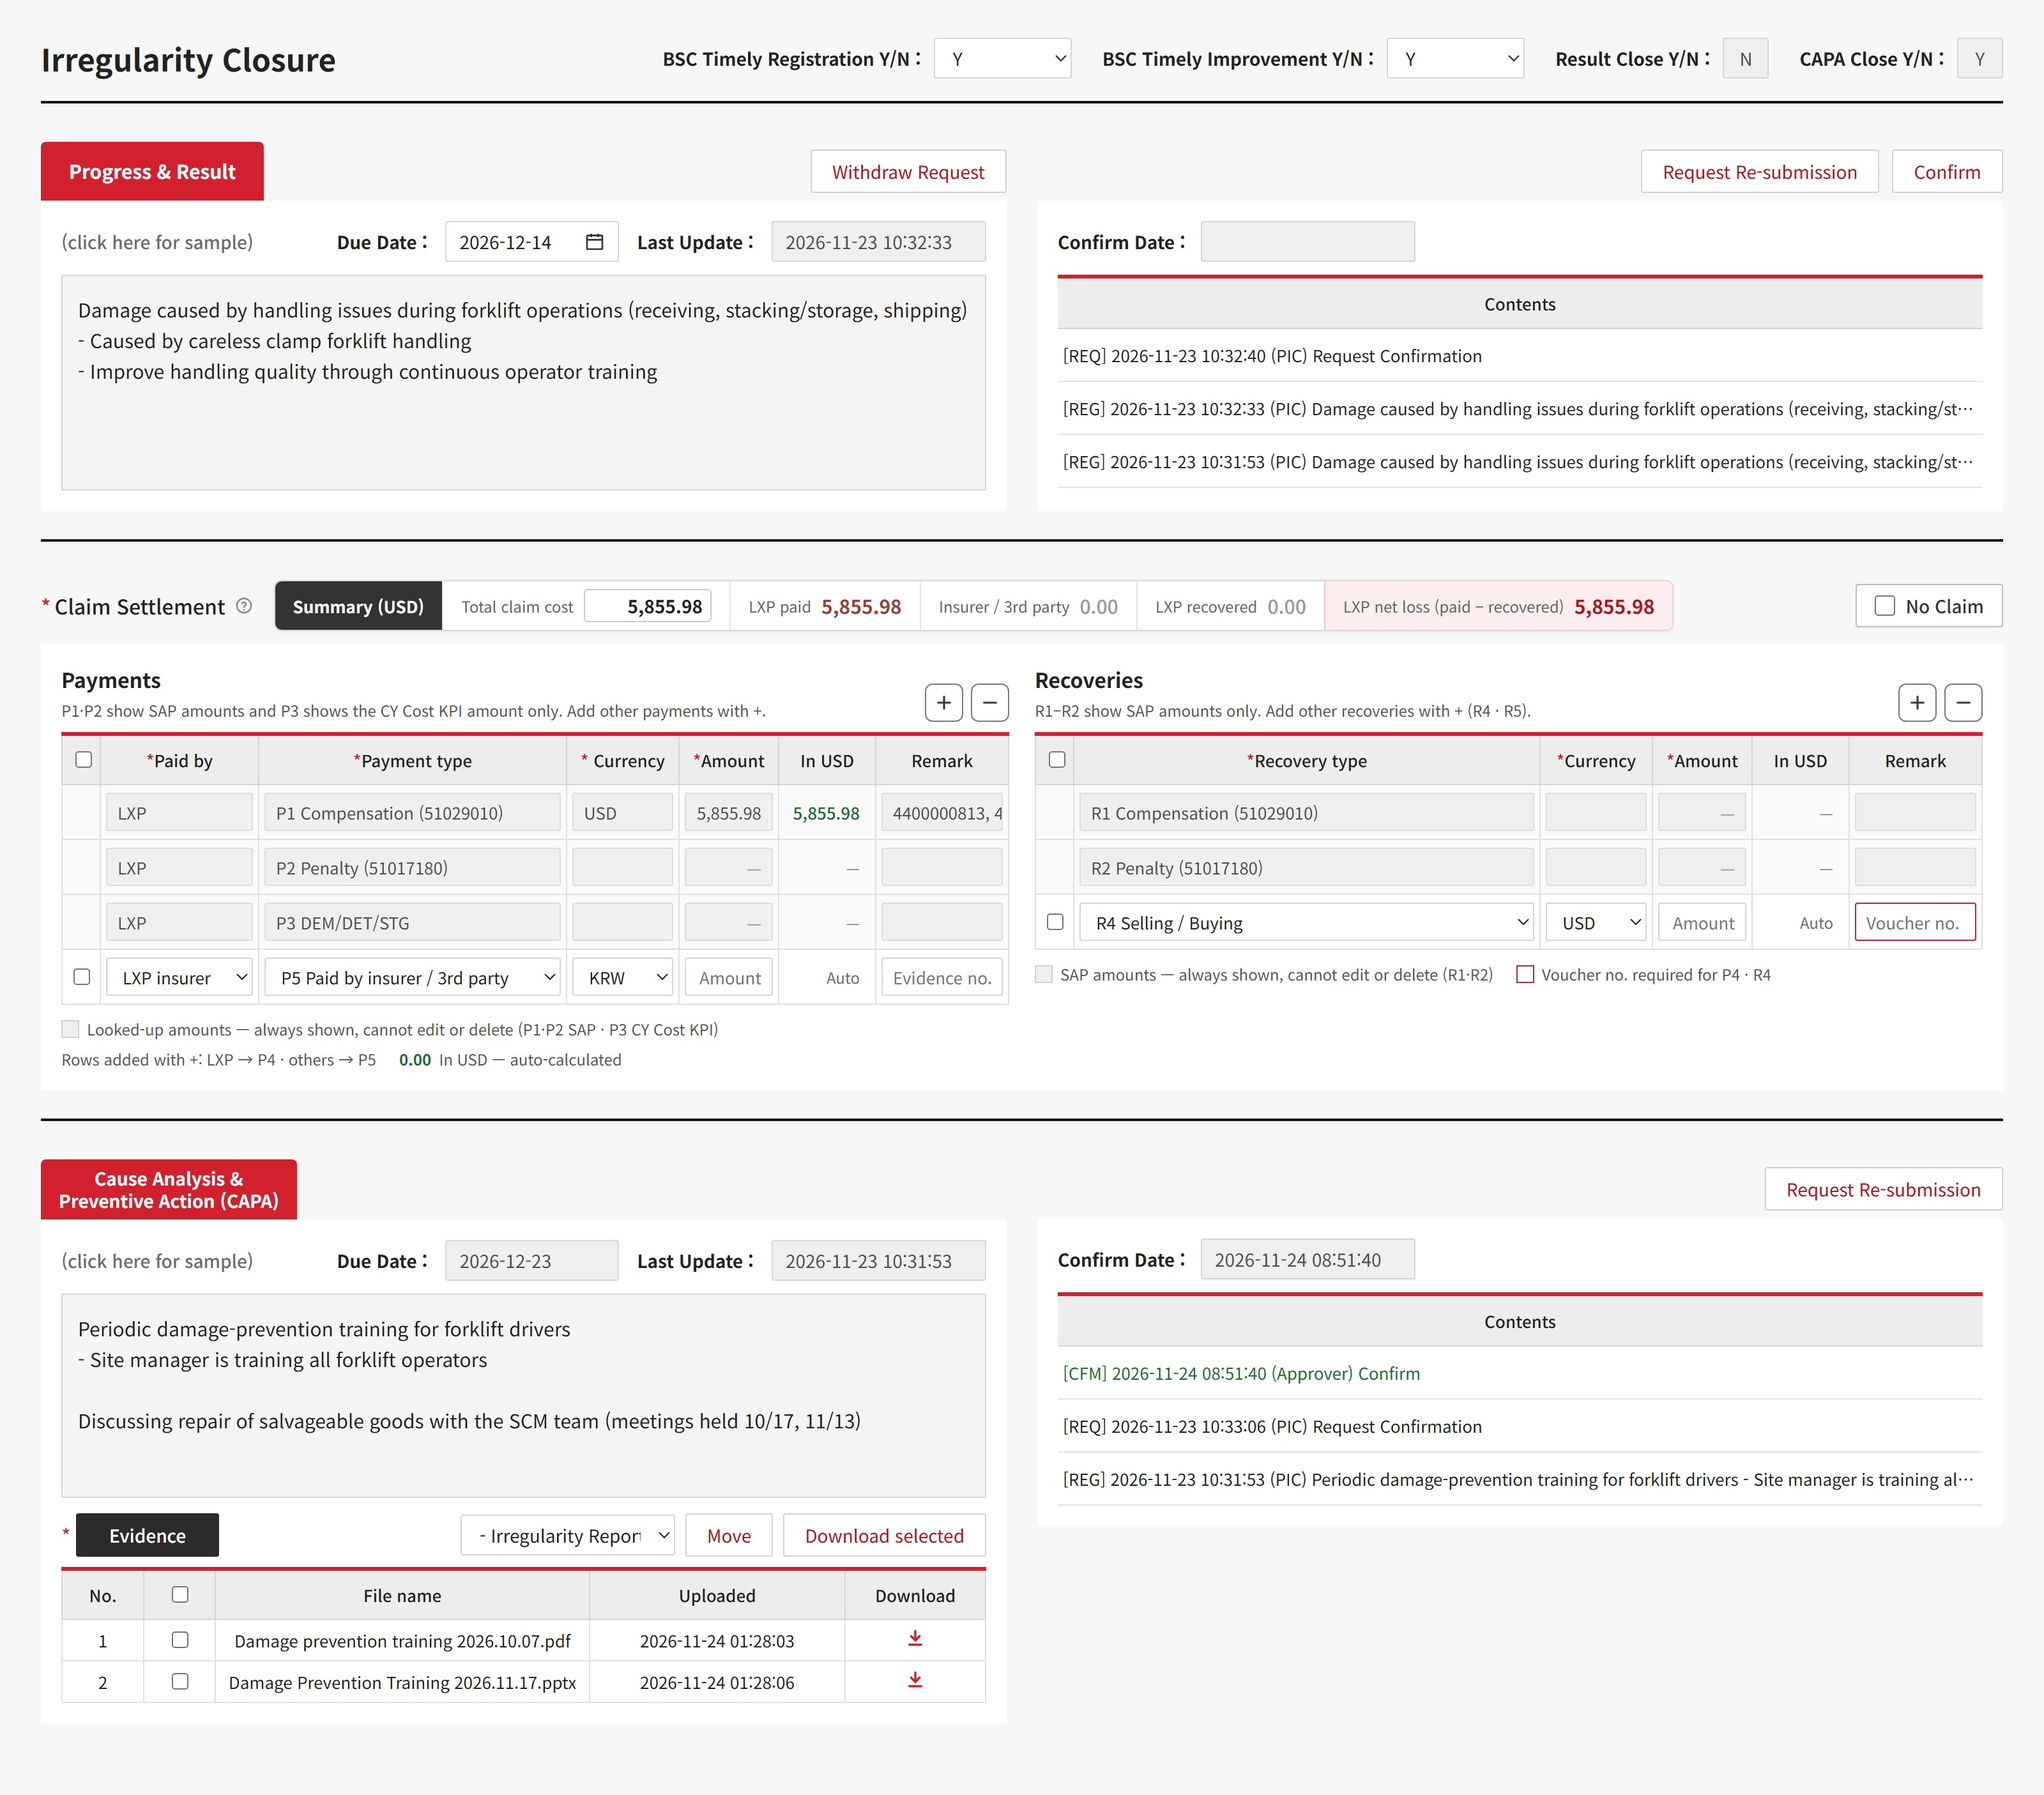
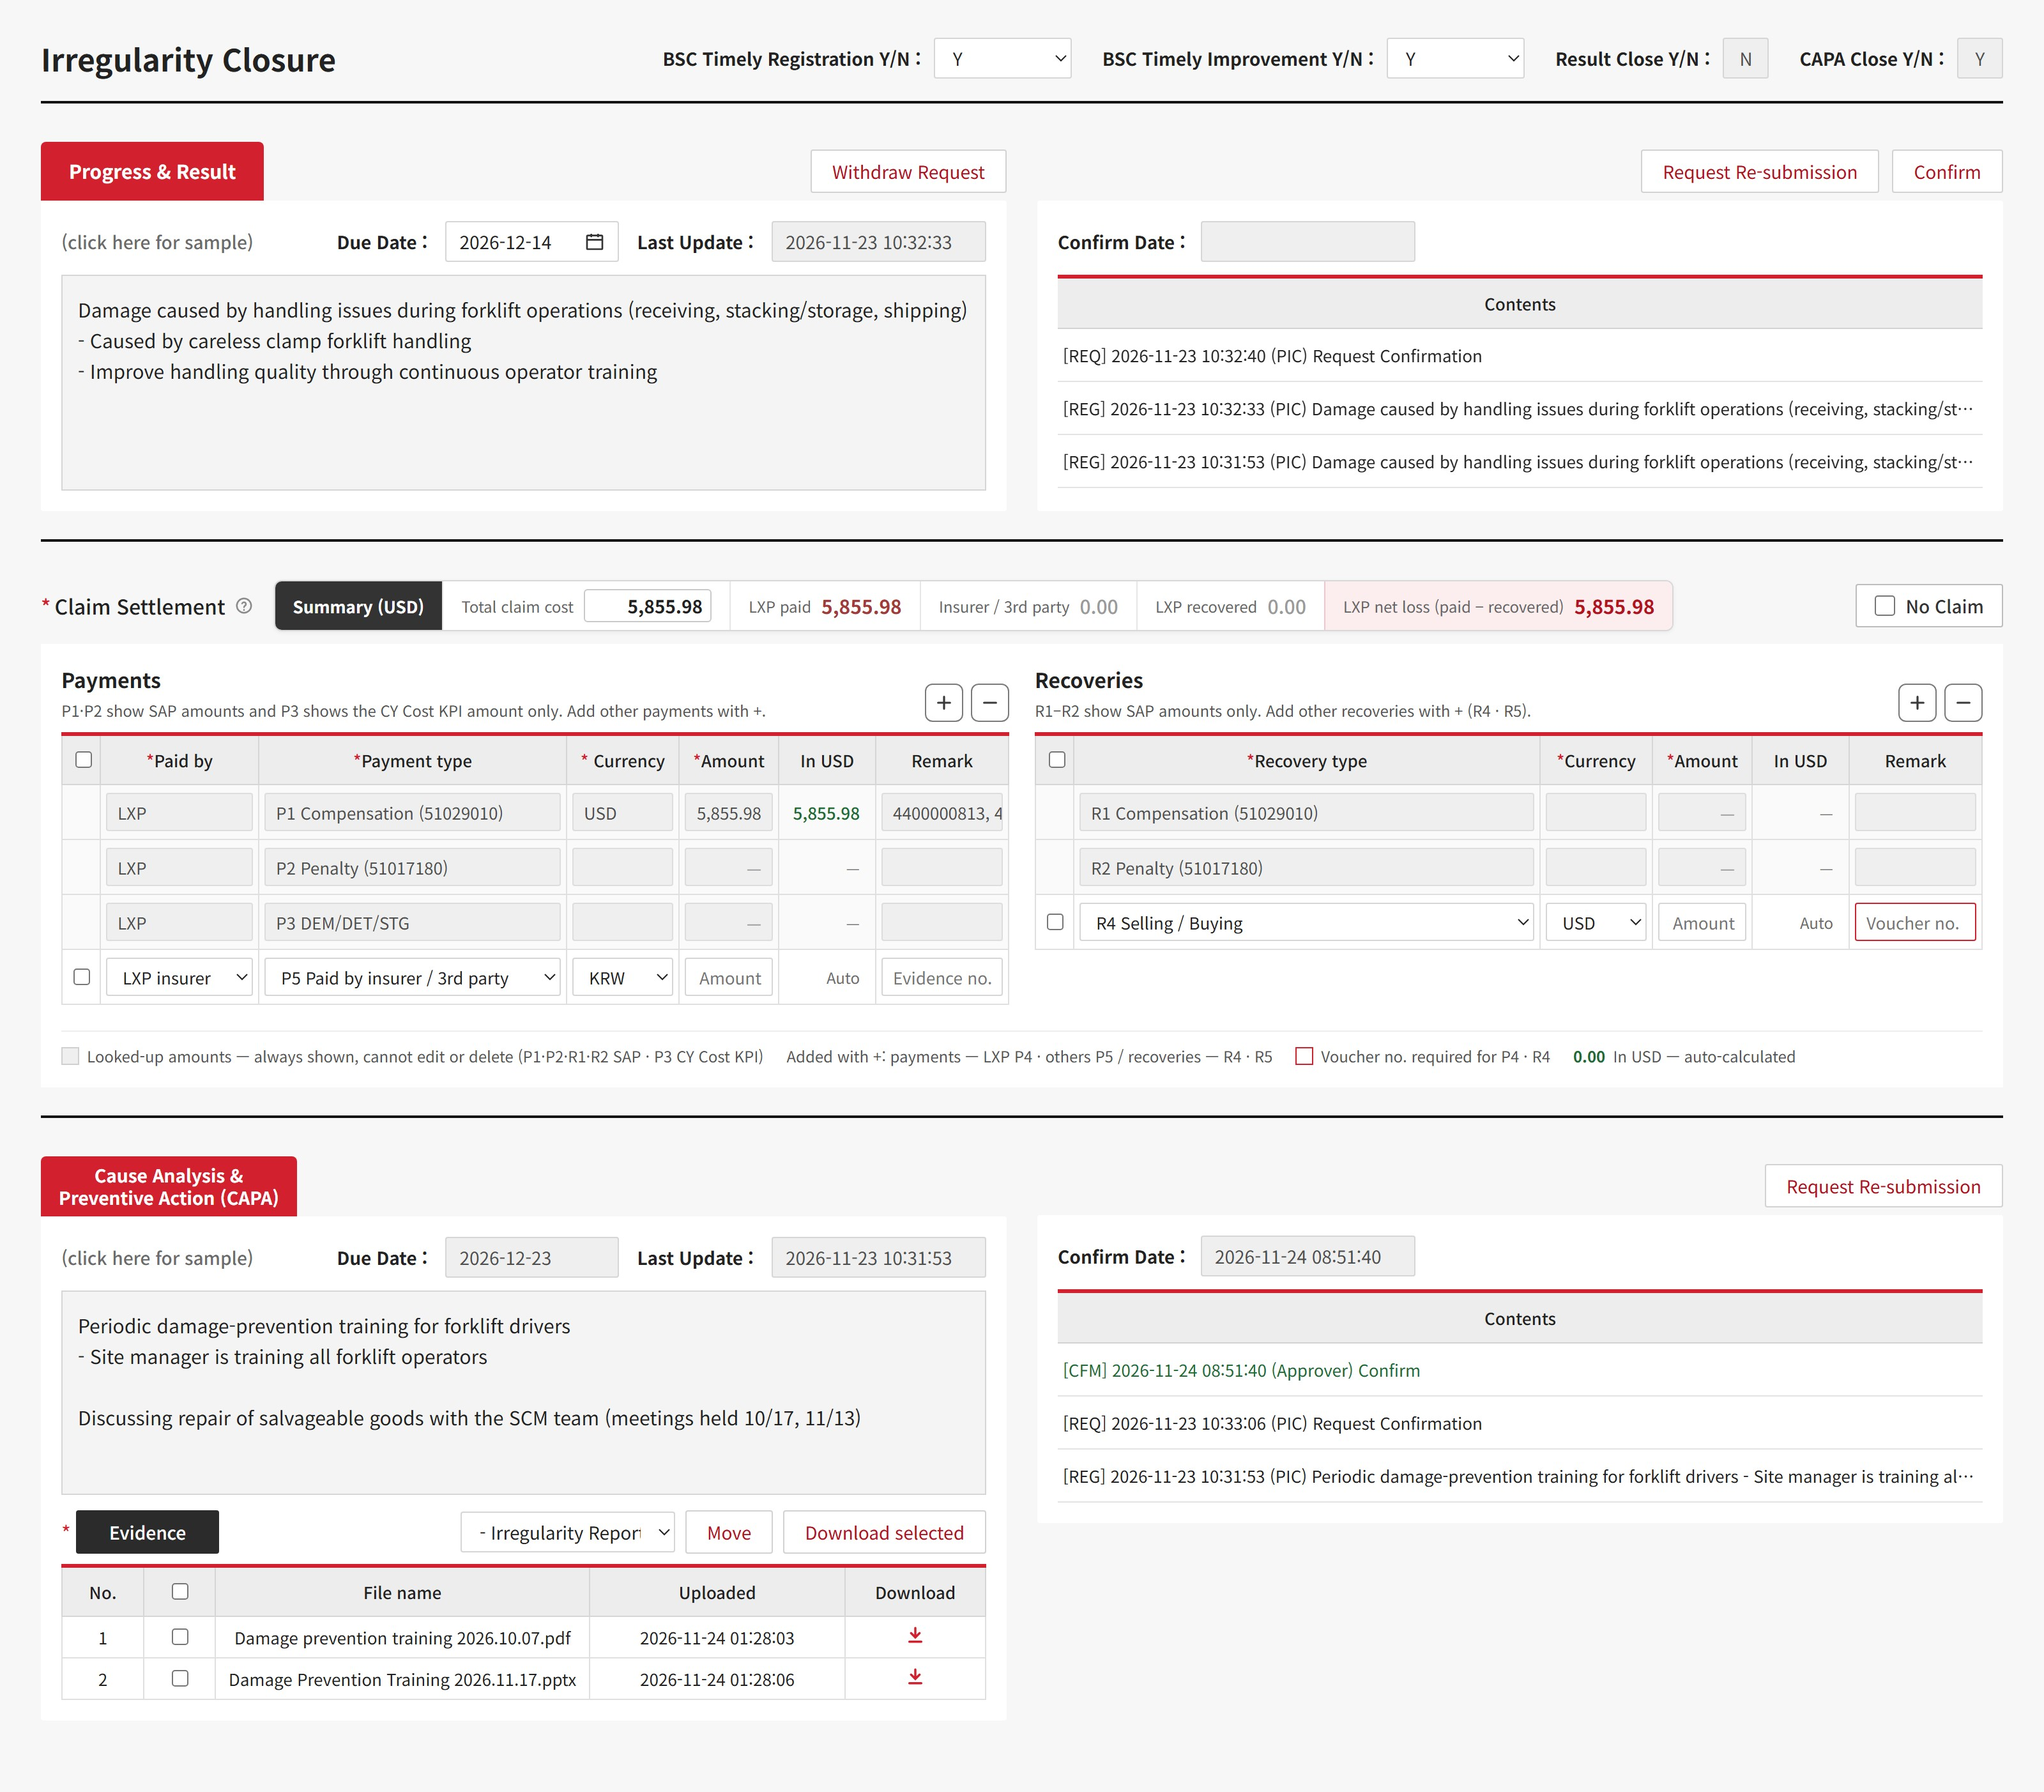
qms-claim-closure: one shared legend under both tables

diff --git a/share/qms-claim-closure.html b/share/qms-claim-closure.html
@@ -233,12 +233,6 @@ a{color:#B3121F}a:hover{color:#7E0C16}
 </tbody>
 </table>
 </div>
-<div class="legend">
-<span><span class="sw" style="background: #EFEFEF;"></span>조회 금액 — 항상 표시, 수정·삭제 불가 (P1·P2 SAP · P3 CY Cost KPI)</span>
-<span>+ 로 추가한 행: 당사 → P4 · 그 외 → P5</span>
-<span><span style="color: #1E6B34; font-weight: 700; margin-right: 6px;">0.00</span>USD 환산 — 자동 계산</span>
-
-</div>
 </div>
 
 <div style="min-width: 0;">
@@ -291,12 +285,14 @@ a{color:#B3121F}a:hover{color:#7E0C16}
 </tbody>
 </table>
 </div>
-<div class="legend">
-<span><span class="sw" style="background: #EFEFEF;"></span>SAP 조회 금액 — 항상 표시, 수정·삭제 불가 (R1·R2)</span>
-<span><span class="sw" style="background: #fff; border-color: #D3202F;"></span>P4·R4는 전표번호 필수</span>
-</div>
 </div>
 
+<div class="legend" style="grid-column: 1 / -1; margin-top: 0; padding-top: 10px; border-top: 1px solid #EEEEEE;">
+<span><span class="sw" style="background: #EFEFEF;"></span>조회 금액 — 항상 표시, 수정·삭제 불가 (P1·P2·R1·R2 SAP · P3 CY Cost KPI)</span>
+<span>+ 로 추가: 지불 — 당사 P4 · 그 외 P5 / 회수 — R4 · R5</span>
+<span><span class="sw" style="background: #fff; border-color: #D3202F;"></span>P4·R4는 전표번호 필수</span>
+<span><span style="color: #1E6B34; font-weight: 700; margin-right: 6px;">0.00</span>USD 환산 — 자동 계산</span>
+</div>
 </div>
 </section>
 
@@ -514,12 +510,6 @@ Summary (USD)</div>
 </tbody>
 </table>
 </div>
-<div class="legend">
-<span><span class="sw" style="background: #EFEFEF;"></span>Looked-up amounts — always shown, cannot edit or delete (P1·P2 SAP · P3 CY Cost KPI)</span>
-<span>Rows added with +: LXP → P4 · others → P5</span>
-<span><span style="color: #1E6B34; font-weight: 700; margin-right: 6px;">0.00</span>In USD — auto-calculated</span>
-
-</div>
 </div>
 
 <div style="min-width: 0;">
@@ -572,12 +562,14 @@ Summary (USD)</div>
 </tbody>
 </table>
 </div>
-<div class="legend">
-<span><span class="sw" style="background: #EFEFEF;"></span>SAP amounts — always shown, cannot edit or delete (R1·R2)</span>
-<span><span class="sw" style="background: #fff; border-color: #D3202F;"></span>Voucher no. required for P4 · R4</span>
-</div>
 </div>
 
+<div class="legend" style="grid-column: 1 / -1; margin-top: 0; padding-top: 10px; border-top: 1px solid #EEEEEE;">
+<span><span class="sw" style="background: #EFEFEF;"></span>Looked-up amounts — always shown, cannot edit or delete (P1·P2·R1·R2 SAP · P3 CY Cost KPI)</span>
+<span>Added with +: payments — LXP P4 · others P5 / recoveries — R4 · R5</span>
+<span><span class="sw" style="background: #fff; border-color: #D3202F;"></span>Voucher no. required for P4 · R4</span>
+<span><span style="color: #1E6B34; font-weight: 700; margin-right: 6px;">0.00</span>In USD — auto-calculated</span>
+</div>
 </div>
 </section>
 

diff --git a/share/qms-claim-closure-en.html b/share/qms-claim-closure-en.html
@@ -233,12 +233,6 @@ Summary (USD)</div>
 </tbody>
 </table>
 </div>
-<div class="legend">
-<span><span class="sw" style="background: #EFEFEF;"></span>Looked-up amounts — always shown, cannot edit or delete (P1·P2 SAP · P3 CY Cost KPI)</span>
-<span>Rows added with +: LXP → P4 · others → P5</span>
-<span><span style="color: #1E6B34; font-weight: 700; margin-right: 6px;">0.00</span>In USD — auto-calculated</span>
-
-</div>
 </div>
 
 <div style="min-width: 0;">
@@ -291,12 +285,14 @@ Summary (USD)</div>
 </tbody>
 </table>
 </div>
-<div class="legend">
-<span><span class="sw" style="background: #EFEFEF;"></span>SAP amounts — always shown, cannot edit or delete (R1·R2)</span>
-<span><span class="sw" style="background: #fff; border-color: #D3202F;"></span>Voucher no. required for P4 · R4</span>
-</div>
 </div>
 
+<div class="legend" style="grid-column: 1 / -1; margin-top: 0; padding-top: 10px; border-top: 1px solid #EEEEEE;">
+<span><span class="sw" style="background: #EFEFEF;"></span>Looked-up amounts — always shown, cannot edit or delete (P1·P2·R1·R2 SAP · P3 CY Cost KPI)</span>
+<span>Added with +: payments — LXP P4 · others P5 / recoveries — R4 · R5</span>
+<span><span class="sw" style="background: #fff; border-color: #D3202F;"></span>Voucher no. required for P4 · R4</span>
+<span><span style="color: #1E6B34; font-weight: 700; margin-right: 6px;">0.00</span>In USD — auto-calculated</span>
+</div>
 </div>
 </section>
 
